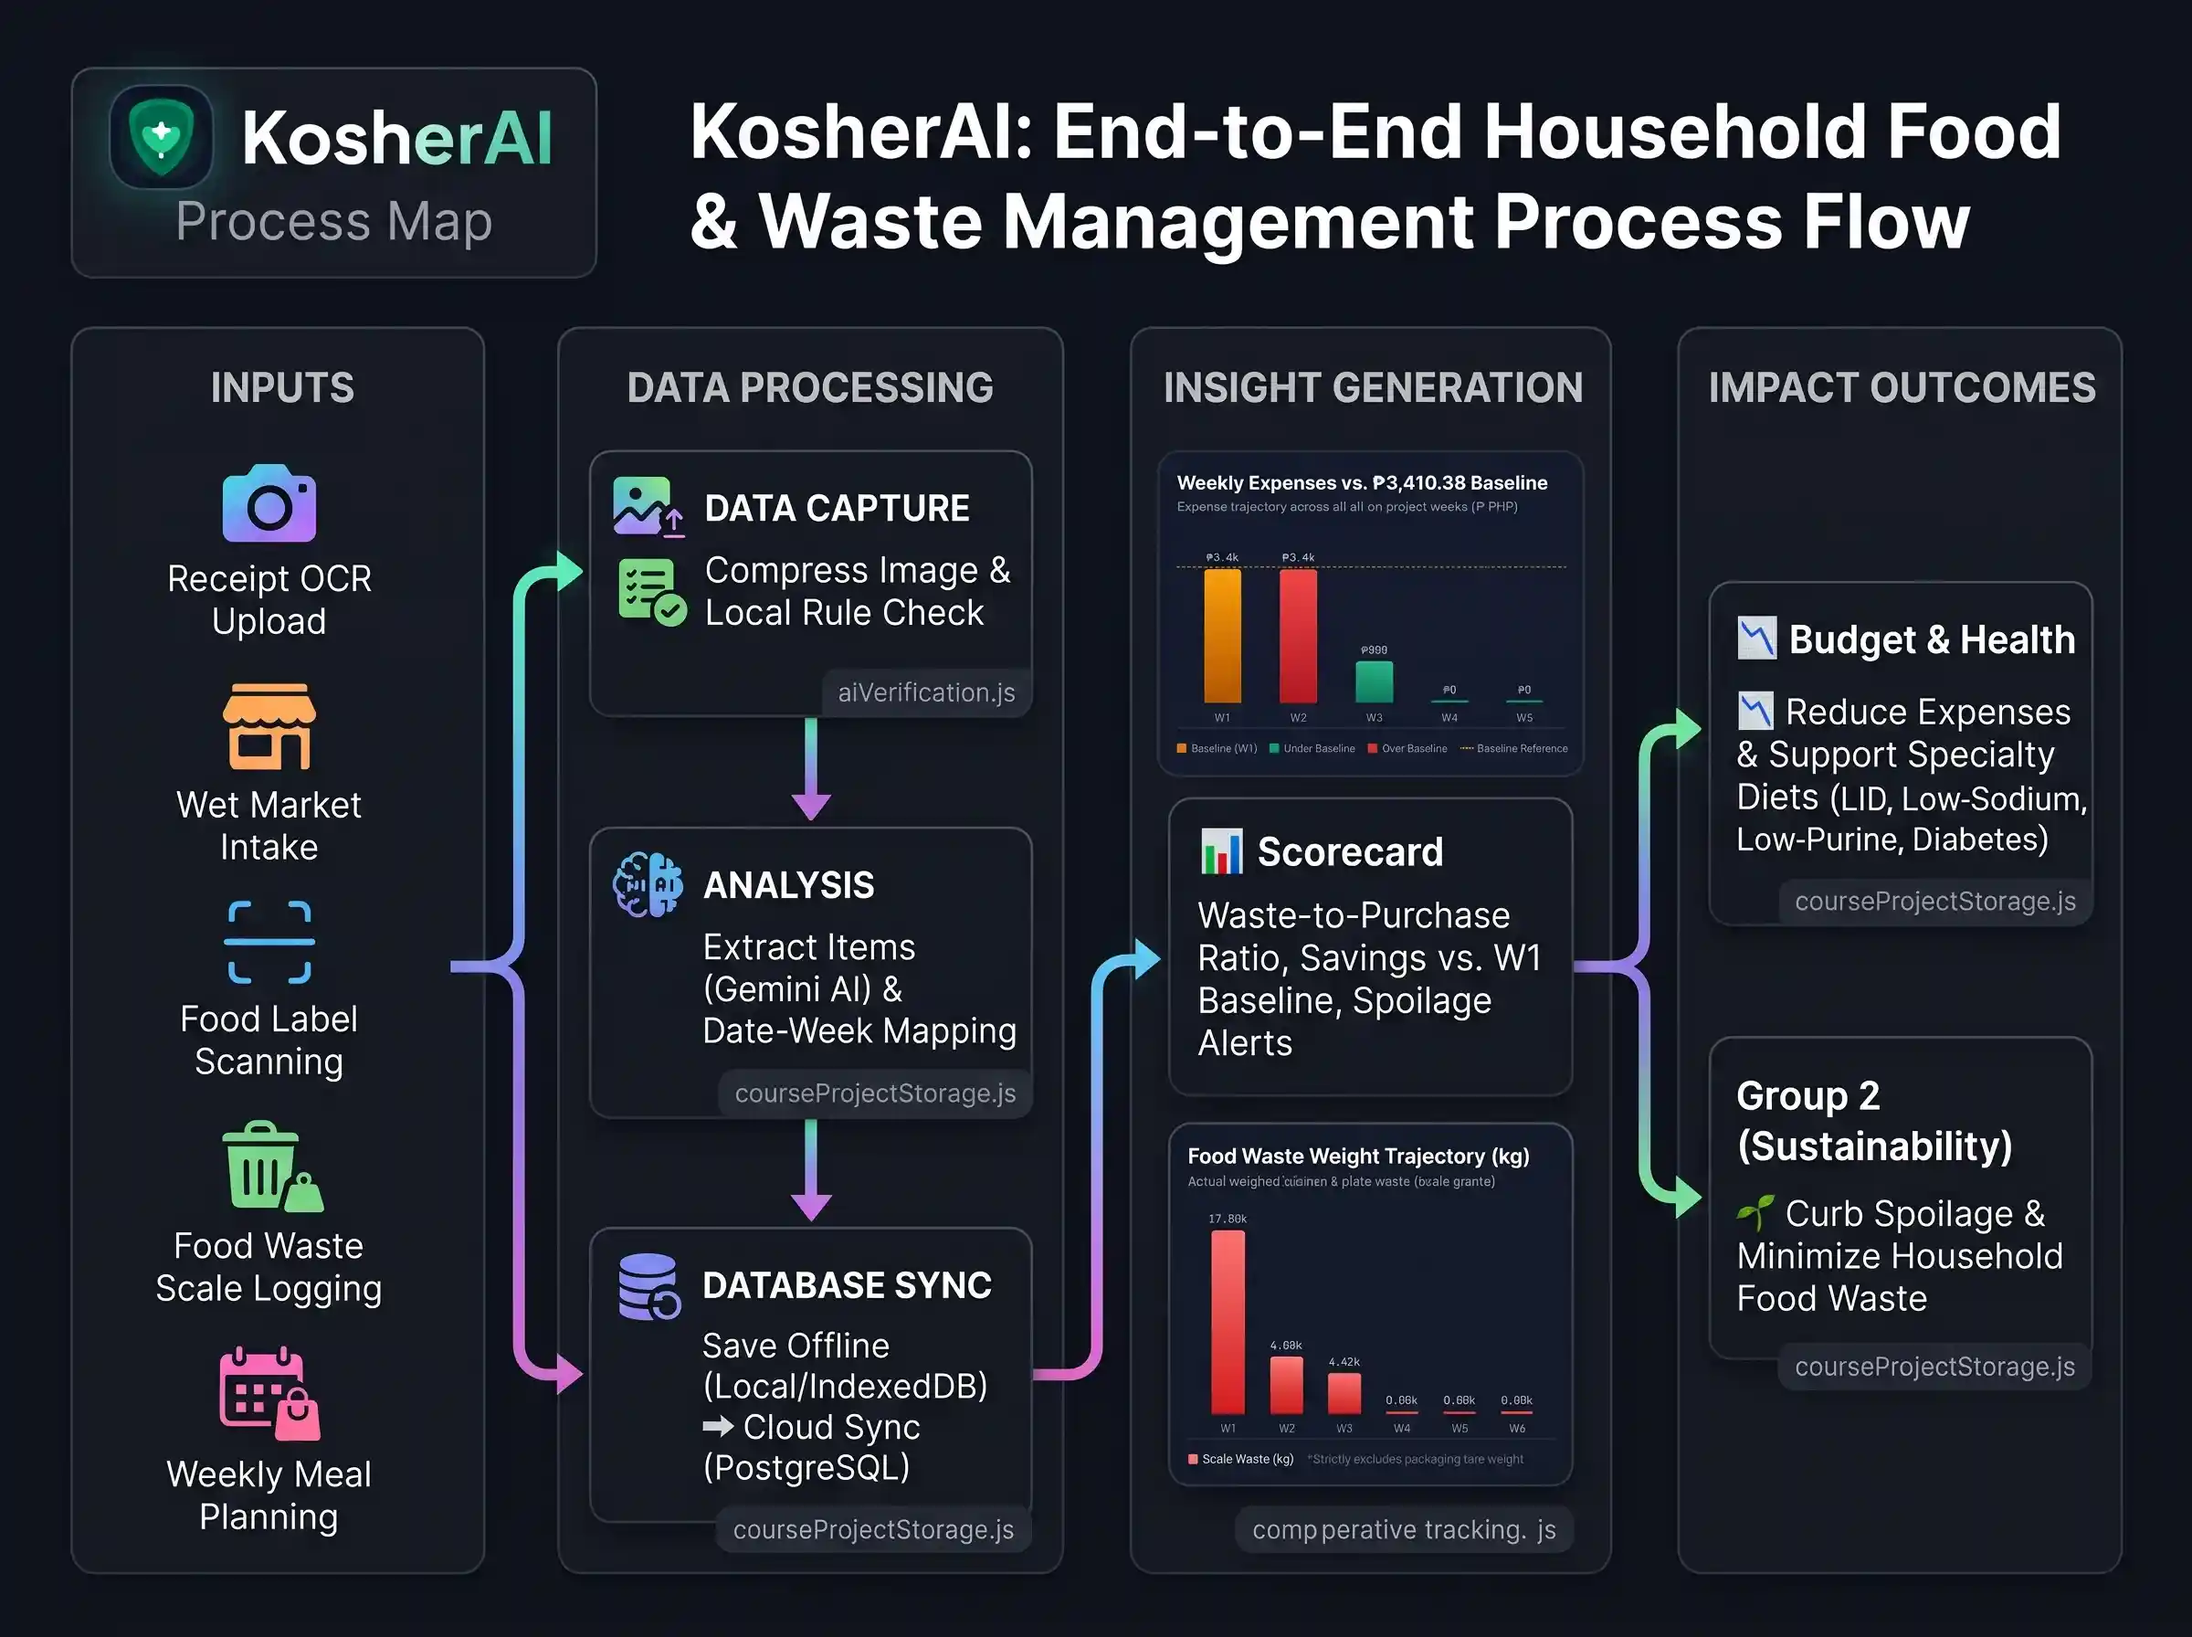
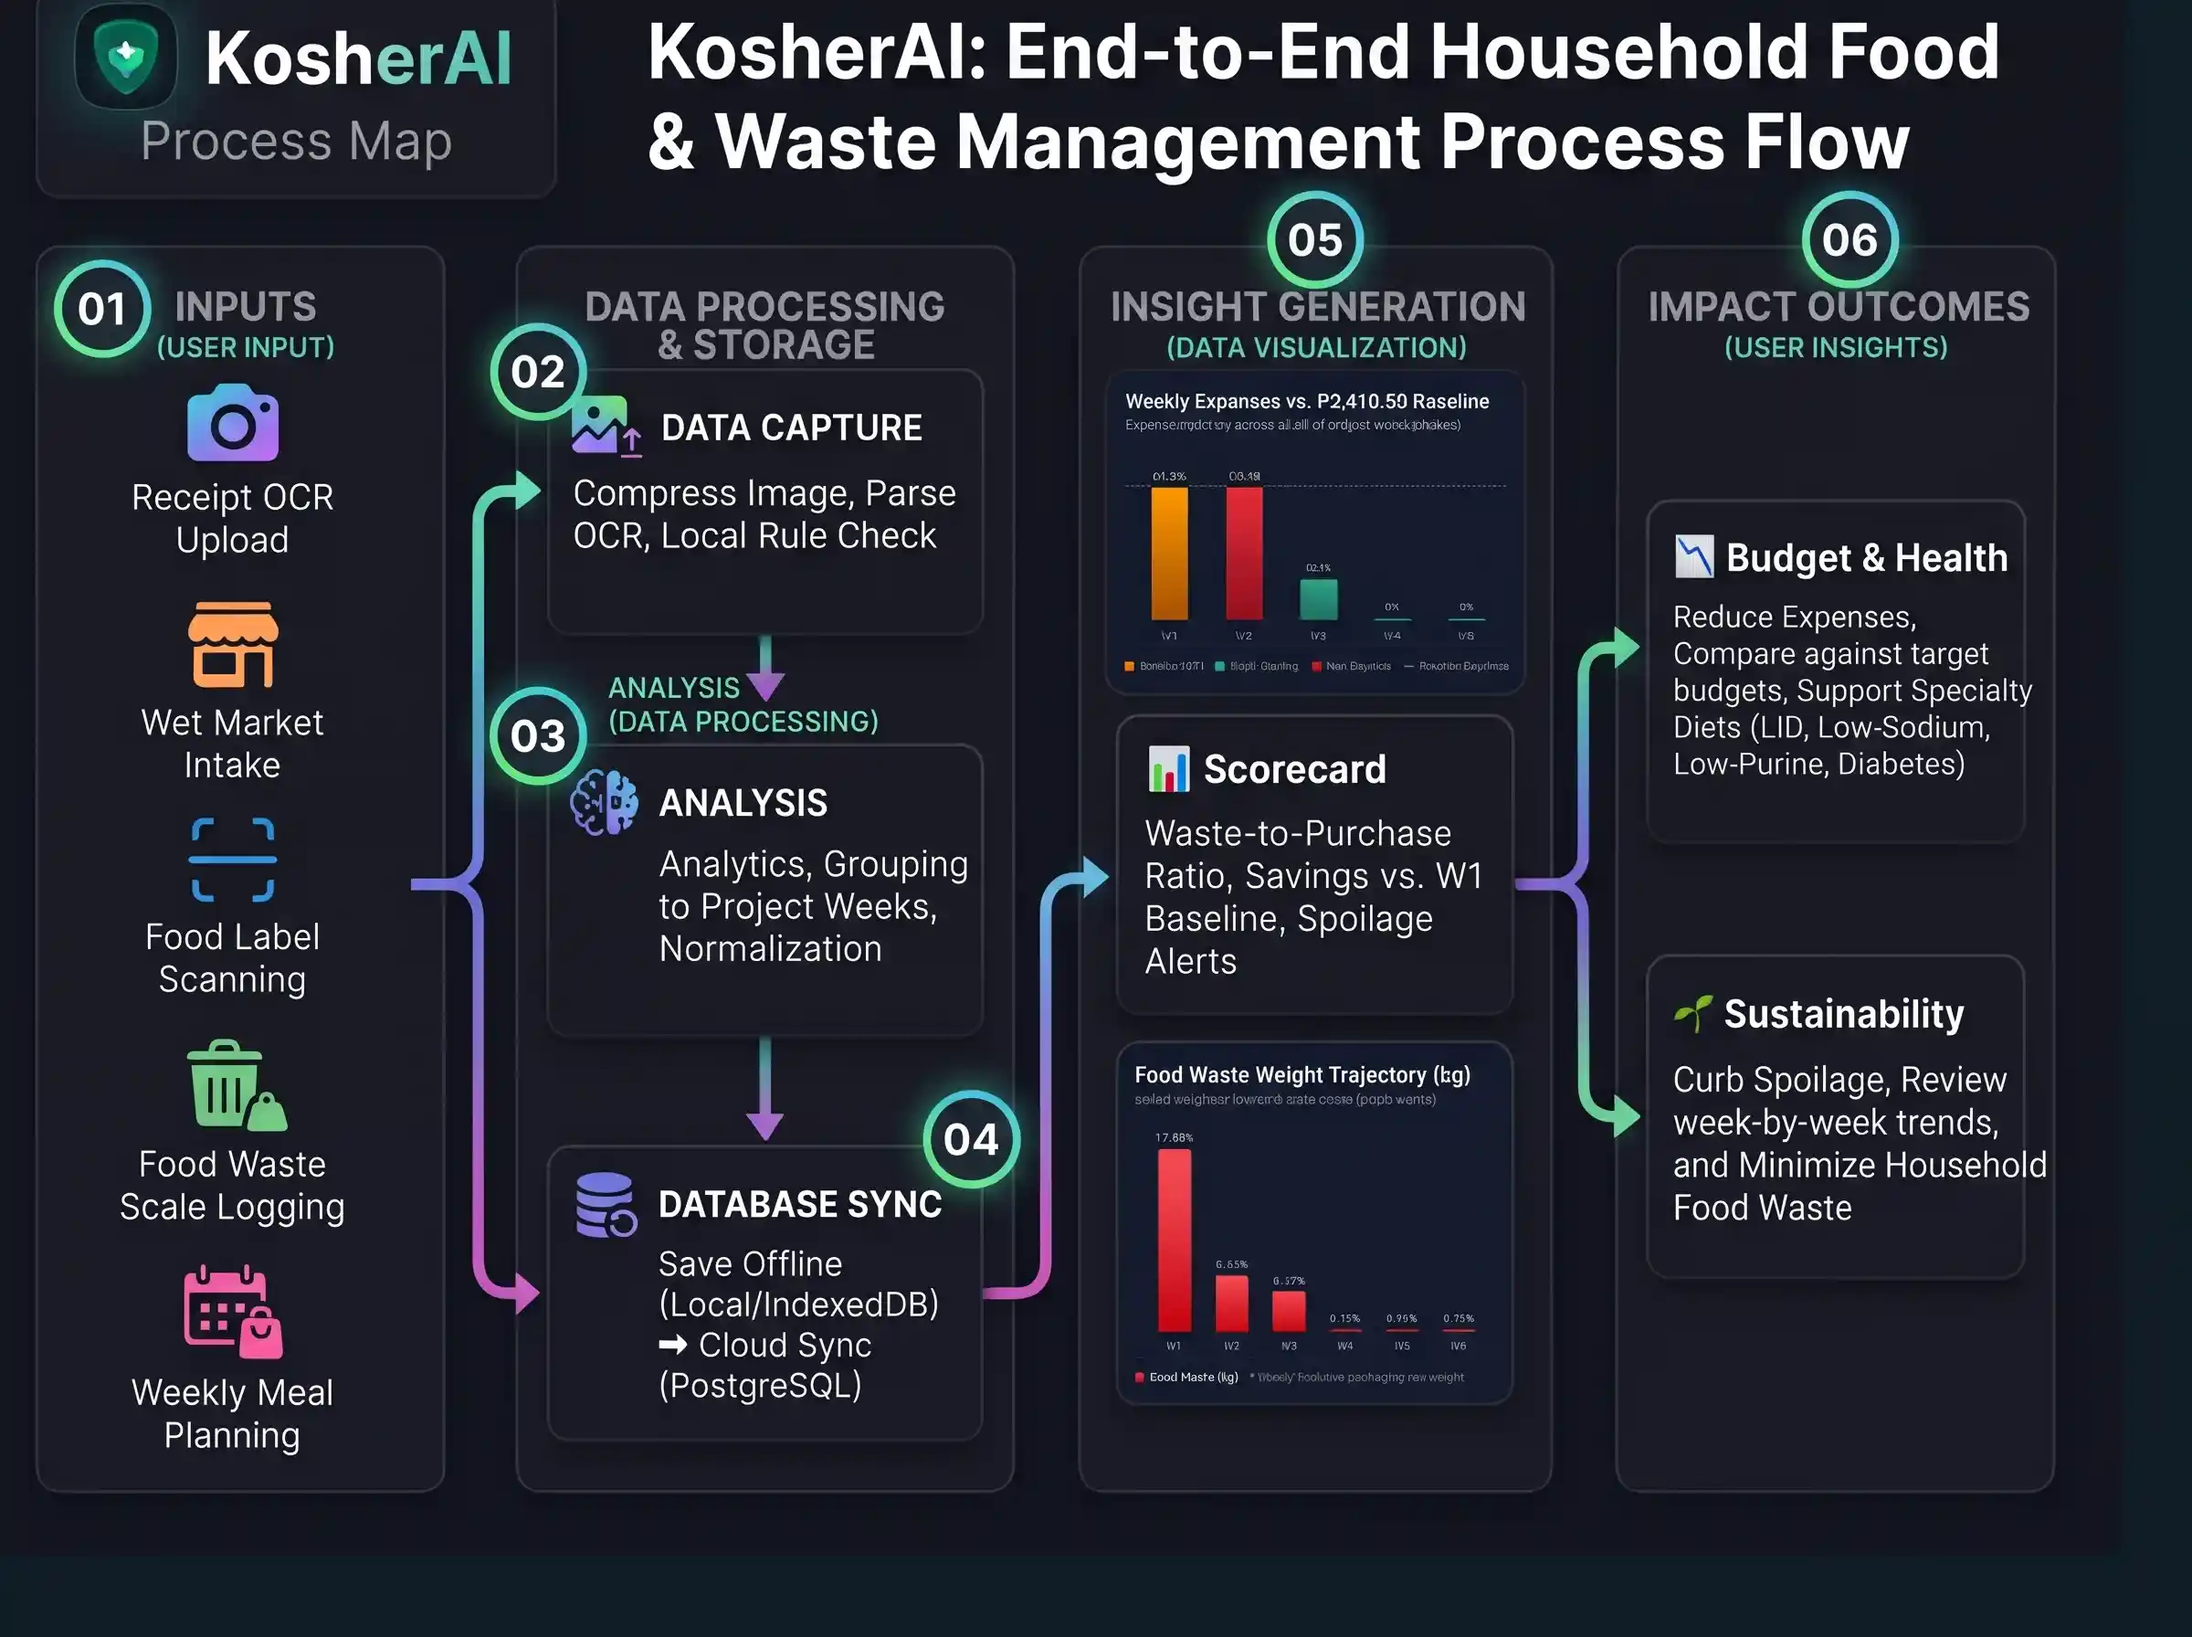
feat(tool-guide): improve section numbering and simplify workflow descriptions

Changed region(s): [[0.1875, 0.0, 0.9688, 0.9688], [0.0, 0.0, 0.25, 0.9375]]

diff --git a/src/components/ToolGuideTab.js b/src/components/ToolGuideTab.js
@@ -16,28 +16,28 @@ export function renderToolGuideTab(state = {}) {
 
   const collectionMethods = [
     {
+      step: '01 • RECEIPT CAPTURE',
       title: 'Supermarket Receipt OCR & Photo Upload',
-      module: 'CourseProjectView.js + aiVerification.js',
-      desc: 'Captures receipt images via device camera or photo gallery, compresses them for upload (compressImageForOCR), and extracts store, date, total amount, and line items using scanReceiptWithPaddleOCR and verifyWithGeminiAI.'
+      desc: 'Captures receipt images via your device camera or photo gallery, optimizes them for fast upload, and automatically extracts the store name, date, total amount, and purchased items.'
     },
     {
+      step: '02 • WET MARKET INTAKE',
       title: 'Wet Market / Palengke Intake',
-      module: 'CourseProjectView.js + ManualTripModal.js',
       desc: 'Records receipt-less produce and wet-market purchases including whole-grocery scale weight (kg), itemized quantities, unit prices, and dietary compatibility.'
     },
     {
+      step: '03 • LABEL SCANNING',
       title: 'Food & Label Scanner',
-      module: 'ScannerTab.js + ruleEngine.js',
-      desc: 'Analyzes food labels and ingredient lists using runClientOCR and analyzeIngredients against the active dietary protocol (Low-Iodine, Low-Purine, Low-Sodium, Diabetic, or Pinoy Keto).'
+      desc: 'Reads food labels and ingredient lists, then checks them against your active dietary protocol (Low-Iodine, Low-Purine, Low-Sodium, Diabetic, or Pinoy Keto).'
     },
     {
+      step: '04 • WASTE LOGGING',
       title: 'Food Waste Scale Logging',
-      module: 'CourseProjectView.js + FoodWasteLogView.jsx',
       desc: 'Captures measured kitchen and plate waste in grams, spoilage or preparation reason, and estimated cost separately from grocery spending.'
     },
     {
+      step: '05 • MEAL PLANNING',
       title: 'Weekly Meal Planner & Inventory Allocation',
-      module: 'SmartMealPlanningView.js',
       desc: 'Links planned family meals across Weeks 2–6 to on-hand grocery inventory items to prioritize expiring ingredients and reduce avoidable waste.'
     }
   ];
@@ -46,38 +46,32 @@ export function renderToolGuideTab(state = {}) {
     {
       step: '01 • USER INPUT',
       title: 'User Input',
-      desc: 'Household members upload receipt photos, scan food labels, log wet-market trips, record food waste weights, or plan weekly meals.',
-      modules: 'CourseProjectView.js · ScannerTab.js'
+      desc: 'Household members upload receipt photos, scan food labels, log wet-market trips, record food waste weights, or plan weekly meals.'
     },
     {
-      step: '02 • DATA COLLECTION',
-      title: 'Data Collection & OCR',
-      desc: 'Images are compressed client-side and parsed via PaddleOCR / Gemini AI or evaluated offline with the local ingredient rule engine.',
-      modules: 'aiVerification.js · ruleEngine.js'
+      step: '02 • DATA VALIDATION',
+      title: 'Data Collection & Validation',
+      desc: 'Images are optimized on your device and checked with AI vision or offline dietary rules to ensure accurate, reliable entries.'
     },
     {
-      step: '03 • DATA PROCESSING',
-      title: 'Analytics & Normalization',
-      desc: 'Records are grouped into project weeks (getProjectWeekForDate), checked for duplicate receipts, and analyzed for waste ratio and savings.',
-      modules: 'courseProjectStorage.js · householdInsightsService.js'
+      step: '03 • DATA ORGANIZATION',
+      title: 'Analytics & Organization',
+      desc: 'Records are grouped into project weeks, checked for duplicate receipts, and analyzed for waste ratio and household savings.'
     },
     {
       step: '04 • DATA STORAGE',
       title: 'Offline-First + Cloud Sync',
-      desc: 'Saved immediately to localStorage & IndexedDB, then synchronized to Neon PostgreSQL via /api/trips, /api/food-waste, /api/scans, and /api/meal-plans.',
-      modules: 'indexedDbStorage.js · api/*.js · cloudinary.js'
+      desc: 'Data is saved immediately on your device so it remains available offline, and automatically syncs to the cloud when connectivity is available.'
     },
     {
-      step: '05 • DATA VISUALIZATION',
+      step: '05 • DATA ANALYSIS',
       title: 'Dashboards & Charts',
-      desc: 'Aggregated metrics render in the Household Insights Scorecard, Six-Week Comparative Trajectory table, and Weekly Expenses Bar Chart.',
-      modules: 'HouseholdInsightsView.js · CourseProjectView.js'
+      desc: 'Aggregated metrics render in the Household Insights Scorecard, Six-Week Comparative Trajectory table, and Weekly Expenses Bar Chart.'
     },
     {
       step: '06 • USER INSIGHTS',
       title: 'User Insights',
-      desc: 'Families review W2–W6 savings vs. W1 baseline, waste-to-purchase ratios, over-buying alerts, and downloadable CSV reports.',
-      modules: 'overBuyingDetector.js · exportAllCourseCsvs'
+      desc: 'Families review W2–W6 savings vs. W1 baseline, waste-to-purchase ratios, over-buying alerts, and downloadable CSV reports.'
     }
   ];
 
@@ -173,11 +167,11 @@ export function renderToolGuideTab(state = {}) {
           ${collectionMethods.map(m => `
             <div class="guide-subcard">
               <div>
+                <div class="guide-flow-step" style="margin-bottom: 8px;">
+                  <span>${m.step}</span>
+                </div>
                 <h3>${m.title}</h3>
                 <p style="margin-top: 8px;">${m.desc}</p>
-              </div>
-              <div>
-                <span class="guide-code-tag">${m.module}</span>
               </div>
             </div>
           `).join('')}
@@ -221,7 +215,6 @@ export function renderToolGuideTab(state = {}) {
               </div>
               <h4>${stage.title}</h4>
               <p>${stage.desc}</p>
-              <span class="guide-code-tag">${stage.modules}</span>
             </div>
           `).join('')}
         </div>

diff --git a/test/homeTab.test.js b/test/homeTab.test.js
@@ -148,7 +148,9 @@ console.log('\nTest 5: ToolGuideTab renders About, Collection, Workflow, Visuali
   assert.ok(guideHtml.includes('id="open-process-map-lightbox-btn"'), 'Must render tap-to-expand button');
   assert.ok(guideHtml.includes('D. Data Visualization'), 'Must include Data Visualization section');
   assert.ok(guideHtml.includes('E. Feature Guides'), 'Must include Feature Guides section');
-  assert.ok(guideHtml.includes('User Input') && guideHtml.includes('User Insights'), 'Flowchart stages must be present');
+  assert.ok(guideHtml.includes('01 • RECEIPT CAPTURE') && guideHtml.includes('05 • MEAL PLANNING'), 'Section B numbered badges must be present');
+  assert.ok(guideHtml.includes('01 • USER INPUT') && guideHtml.includes('02 • DATA VALIDATION') && guideHtml.includes('03 • DATA ORGANIZATION') && guideHtml.includes('04 • DATA STORAGE') && guideHtml.includes('05 • DATA ANALYSIS') && guideHtml.includes('06 • USER INSIGHTS'), 'Section C 6 numbered stages must be present');
+  assert.ok(!guideHtml.includes('compressImageForOCR') && !guideHtml.includes('getProjectWeekForDate') && !guideHtml.includes('/api/trips') && !guideHtml.includes('CourseProjectView.js'), 'Technical filenames, functions, and endpoints must be removed from Sections B and C');
   assert.ok(guideHtml.includes('Weekly Expenses vs.'), 'Live bar chart visualization must be rendered');
   assert.ok(guideHtml.includes('data-home-course-tab="scan"'), 'Feature guide must link to Scan Food');
 
